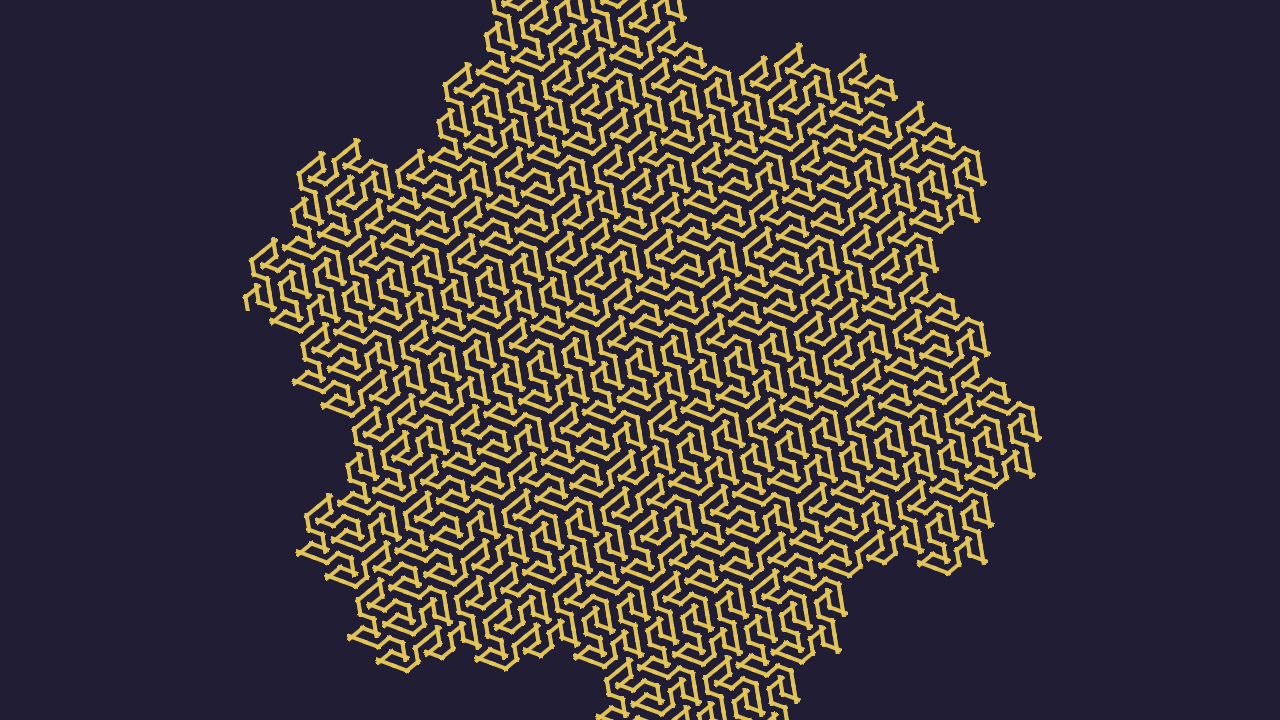
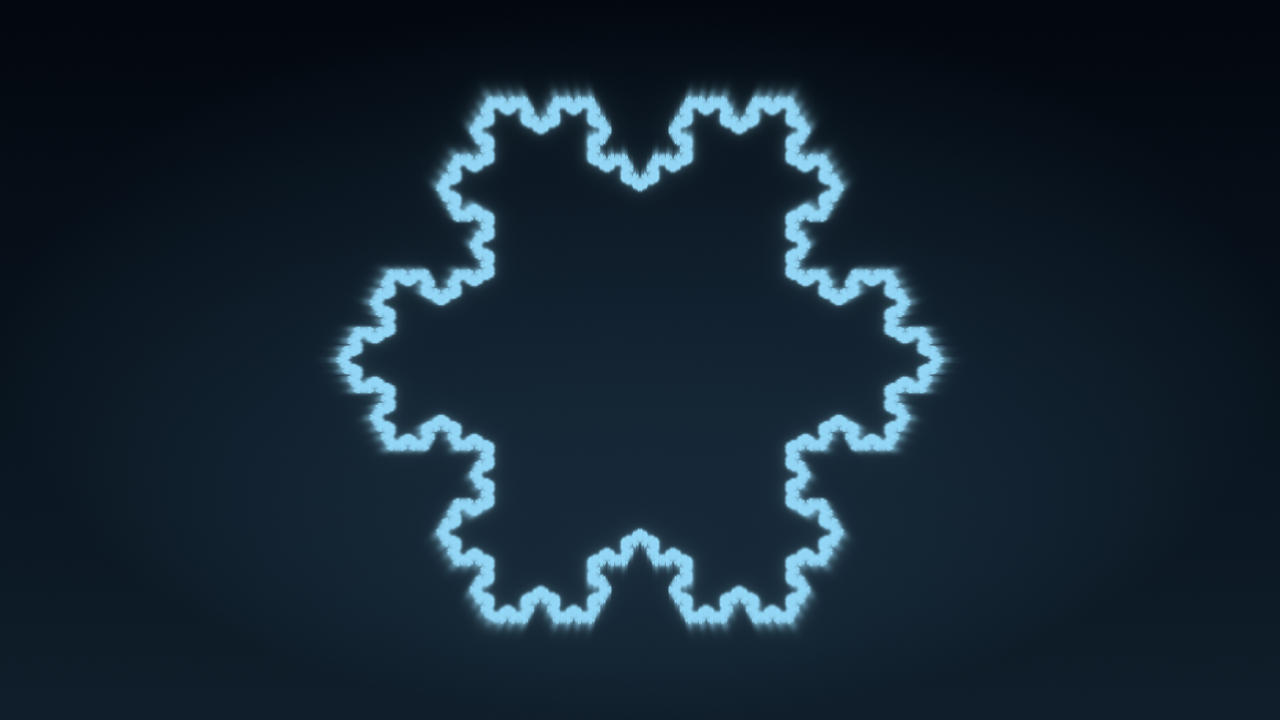
chore(presets): retire lsystem_vellum (plan 0232 phase 4)
The owner found Vellum too sparse and, after a denser retune, retired
it. Its file and gallery card go. Rime, the lsystem representative,
takes the preset-guide card (re-rendered, with new alt text); Sumi Mono
takes its place as the draw_progress example in presets/README.md and
as the branching figure on the softness sheet. Two README notes and the
lines scene's softness doc keep their measurements and now name a
since-retired ink-on-paper lsystem; Vitrail's list of library stroke
widths drops it.

The corpus-walk guard in preset_check asserted at least 100 files and
the curated corpus is now 99, so it fired on a library that shrank
rather than on a broken walk. Its floor moves to 50, about half the
corpus.

diff --git a/standalone/tests/suite/preset_check.rs b/standalone/tests/suite/preset_check.rs
@@ -430,9 +430,11 @@ fn the_corpus_holds_to_the_engine_and_to_the_house_style() {
     }
 
     // A walk that stopped reading the tree would otherwise pass by finding
-    // nothing, which is the one way a corpus gate fails quietly.
+    // nothing, which is the one way a corpus gate fails quietly. The floor sits
+    // near half the corpus (99 files at Plan 0232 Phase 4), so a curation that
+    // retires presets does not trip it and a walk that reads one directory does.
     assert!(
-        checked >= 100,
+        checked >= 50,
         "the corpus walk found only {checked} files, which means it stopped \
          reading the tree rather than that the library shrank"
     );

diff --git a/core/src/render/scenes/lines/mod.rs b/core/src/render/scenes/lines/mod.rs
@@ -91,7 +91,7 @@ pub fn half_width(thickness: f32) -> f32 {
 ///
 /// **`1.0` remains reachable and is not dead surface.** The same gate returned
 /// `1.0` for the Maurer roses, `0` for `curve_ionwake` and `0.25` for
-/// `lsystem_vellum` — which is why this is an authorable parameter with a
+/// a since-retired ink-on-paper lsystem — which is why this is an authorable parameter with a
 /// default rather than a constant. A preset that wants the luminous smear
 /// binds one number and gets the pre-Plan-0114 fragment back, term for term.
 ///

diff --git a/presets/README.md b/presets/README.md
@@ -2584,7 +2584,7 @@ wrong one is the trap the `glow` entry below records.
 
   > **`1.0` is a legitimate value, not a leftover.** The look gate that set the
   > default returned `1.0` for the Maurer roses, `0` for `curve_ionwake` and
-  > `0.25` for `lsystem_vellum` — the right stroke is a property of the figure.
+  > `0.25` for a since-retired ink-on-paper lsystem — the right stroke is a property of the figure.
   > A preset keeping `1.0` wants a header line saying why, or the next reader
   > will "fix" it.
   >
@@ -3859,7 +3859,7 @@ the three-lever note below says which does what.
 > and is decoded at load, so the hex you write is the colour that
 > renders. `paper_bright` and `ink_bright` take no decode — they are the light
 > itself, so a "dark" paper needs a far smaller number than the display value
-> suggests: `lsystem_vellum` measured `0.07` as a mid violet and settled on
+> suggests: a since-retired ink-on-paper lsystem measured `0.07` as a mid violet and settled on
 > `0.015` for a true near-black. The same is true of `bg_bright`. If a pole reads
 > far brighter than the number you typed, this is why, and the fix is a smaller
 > number rather than a different hue.
@@ -5394,7 +5394,7 @@ Presets worth reading as **worked examples** of one control each:
 | `fragment_supernova` | beat-driven flash/glow **eased** through a `[smoothing]` table |
 | `attractor_ink` | the terminal **ink-on-paper** remap (`ink_*` / `paper_*`) |
 | `curve_rosemono` | the audio-morphable curve **shape** params (`phase` on the onset, `radial_offset` held) |
-| `lsystem_vellum` | `draw_progress` for a **line-draw-on** |
+| `lsystem_sumimono` | `draw_progress` for a **line-draw-on** |
 | `star_rosewindow` | **`rings`** — concentric motifs giving a rosette an interior |
 | `fragment_vitrail` | the **`[layer]` table** — a crisp `over` layer with a bindable `mix`, and per-beat `draw_progress` on the layer |
 | `fragment_sumi` | a **stateful layer** — the attractor as `[layer]` scene, `add`-blended over a field |

diff --git a/docs/preset-guide.md b/docs/preset-guide.md
@@ -163,10 +163,10 @@ from the outside in.
 
 ### `lsystem`
 
-![A gold interlocking maze on deep navy: a dense space-filling curve of hexagonal turns forming a
-rough diamond](images/gallery/lsystem.png)
+![A pale ice-blue Koch snowflake outline on a dark slate ground: one closed crystalline edge, its
+facets furred by a faint outward trail](images/gallery/lsystem.png)
 
-*`presets/lsystem_vellum.toml`*
+*`presets/lsystem_rime.toml`*
 
 A turtle walking a string produced by rewriting an axiom with production rules. The expansion happens
 once when the preset loads — one cached segment buffer per depth — so per frame the scene only picks
